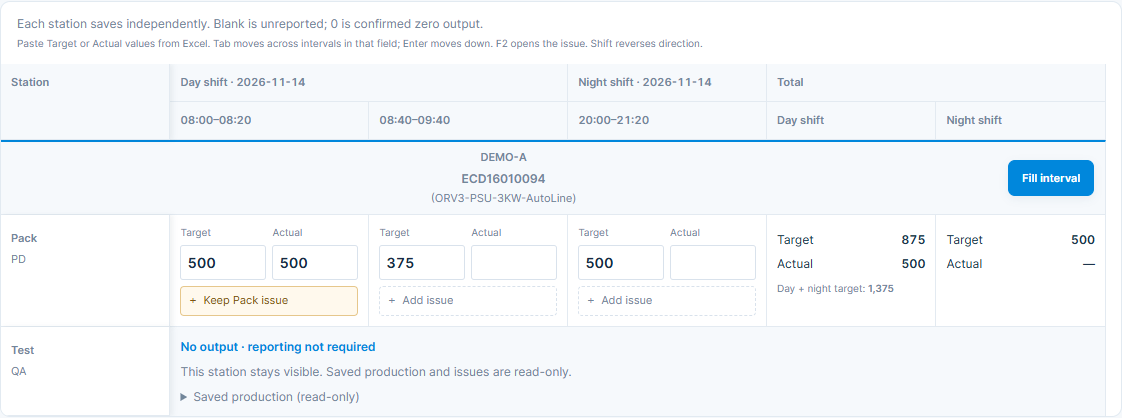
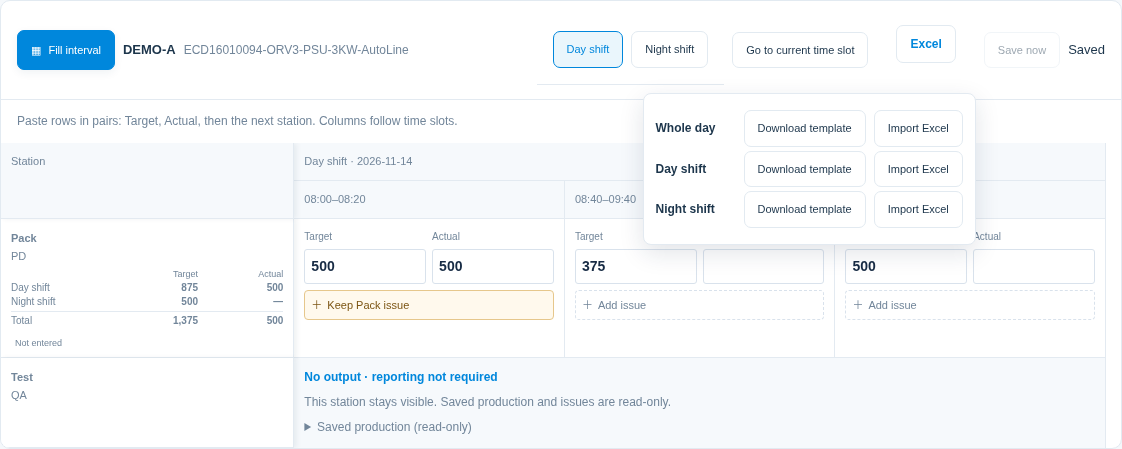
Improve production entry batch workflow

diff --git a/public/help.js b/public/help.js
@@ -51,12 +51,12 @@ const guides = {
         paragraphs: [
           'Choose production date, Line and Model; all stations are listed without a station selector. Each station row has Target, Actual and Issue for every interval. Counts and notes are independent across stations, models and shifts.',
           'If a configured combination has no enabled stations, the page retains its Line/Model choices and shows the daily-target allocation preview. Managers can open the exact Line configuration; members are told to contact a manager. Preview fields do not save production. Enable stations and Save settings before entering results.',
-          'Whole-day spreadsheet shows both shifts. Single-interval spreadsheet shows one slot; Whole-shift spreadsheet shows the selected shift. The left column shows only Job and Station. Target and Actual sit side by side; totals are on the right. People and owners remain saved automatically and are available in production details.',
-          'Stations follow the manager’s saved order. No-output stations remain visible with a reporting-not-required label and expandable saved history; their values cannot be edited. Click the highlighted Fill interval at the top right or beside a centered line heading. Select Line, Model, shift and interval, review current values, enter Target, Actual or both, then Apply to all stations. Entered columns replace prior individual values at enabled output-producing stations; blank keeps the column and 0 writes zero. Issues, other intervals and the daily preset stay unchanged. Individual cells remain editable afterward.',
-          'You can change Line or Model inside the batch window. Typed values remain while a fresh preview is loaded; review the destination before Apply. Applying or closing returns the table to that selected Line/Model and interval. Units with no output-producing stations show an explanation and cannot receive a batch.',
-          'Interval fill saves only when Apply is pressed; closing beforehand discards its unsent values. If another person changes a station, no part of a conflicting batch is saved. Refresh preview keeps your typed values so you can review before applying again. If stations have different captured intervals, use a shared interval or edit them individually.',
+          'Whole-day spreadsheet shows both shifts. Each station has adjacent Target/Actual inputs and a one-line issue preview. The fixed left column includes station, job and day/night/whole-day totals; personnel are in production details.',
+          'Use Fill interval at the left of the command bar. Choose date, Line, Model and interval. Apply Target, Actual or Issue to all stations, then edit individual cells; Apply keeps the window open. Blank shared fields preserve values; 0 writes zero.',
+          'Changing date, Line, Model or interval saves the current scope before loading the destination. Save now keeps the window open. X, Esc or clicking outside saves and closes, then returns entry to the selected destination.',
+          'Invalid values or version conflicts keep drafts open; no part of a conflicting batch is saved. Refresh preview, review changed fields and save again.',
           'Click Add issue or its one-line preview to open the note editor for the displayed station/date/interval. Quick text inserts equipment, material or quality reasons; edit freely, use Enter for new lines, or Clear note to remove text. Done, Esc, a click outside or Ctrl+Enter closes and saves. Opening a note without changes does not write data; long notes never enlarge the table row.',
-          'Click another numeric cell to autosave and confirm Saved. Blank is not reported; 0 is confirmed zero production. Tab moves across intervals within the same field, Enter moves down stations, F2 opens the current cell’s issue, and Ctrl+Enter returns to that cell. Paste numeric rectangles as before. Expand Excel import & templates only when needed.',
+          'Click another numeric cell to autosave and confirm Saved. Blank is not reported; 0 is confirmed zero production. Tab moves across intervals within the same field, Enter moves down stations, F2 opens the current cell’s issue, and Ctrl+Enter returns to that cell. For multirow paste, odd rows are Target and even rows Actual for successive stations. Excel offers whole-day or single-shift templates and imports.',
           'Invalid values and unresolved saves prevent leaving the page. Review latest shows only the affected station. Use latest data or Save my changed cells merges changed cells against the latest version. Other stations are never overwritten.',
         ],
       },
@@ -64,7 +64,7 @@ const guides = {
         title: 'Import an Excel report',
         paragraphs: [
           'Download the template for the production date and shift. Keep Row ID, Line, Model, Job, Station, interval, date and shift identifiers. Fill Target, Actual and Issue on each station’s own rows; different station counts are valid.',
-          'For CSV, provide Row ID + Time slot, or an unambiguous Line + Model + Job/Station + Time slot. Line/model alone is rejected when it matches several stations. Blank cells keep saved values; 0 writes zero. Enter each shift separately.',
+          'For CSV, provide Row ID + Time slot, or an unambiguous Line + Model + Job/Station + Time slot. Line/model alone is rejected when it matches several stations. Blank cells keep saved values; 0 writes zero. Excel offers whole-day or single-shift templates and imports.',
           'Preview checks mappings, intervals, values and versions. Fix errors before importing. Any stale station or configuration version rejects the entire import. Saved historical station and interval identifiers remain supported.',
         ],
       },
@@ -147,12 +147,12 @@ const guides = {
         paragraphs: [
           '確認生產日期、Line、Model，不需選站點，下方直接列各站。每站每時段都有 Target、Actual、Issue；各站、各 Model、各班別的數值與異常獨立。',
           '若配對沒有啟用站點，產線／Model 選項仍保留，並顯示日目標分配預覽。管理員可直接前往該組配置，member 會看到聯繫管理員提示；預覽欄位不建立填報。先啟用站點並儲存設定，再填寫結果。',
-          '整日雙班試算表列兩班；單時段試算表只列選定時段；整班試算表列所選班別。左側只顯示職務與站點，Target、Actual 並排，合計放右側。人員與 OWNER 仍自動保留，需要時到生產明細查看。',
-          '站點依管理員儲存的順序顯示。無產出站保留顯示與免填報標示，可展開已存歷史資料但不能改值。點上方右側醒目按鈕或置中產線標題右側「同時段批次填寫」，選產線、Model、班別與時段，核對現值後輸入 Target、Actual 或兩者並套用。填入欄覆蓋此組啟用產出站的原個別值；留白保留該欄，0 寫入零。異常、其他時段與日目標預設不變，套用後仍可個別修改。',
-          '批次視窗可直接切換產線與 Model，已輸入的數字保留並重新載入預覽，套用前請核對目的配對。套用或關閉後，填報表會切到所選產線／Model 與時段。沒有產出站的配對會說明原因，不能套用批次。',
-          '批次填寫按套用才儲存，套用前關閉會捨棄未送出的內容。若他人已修改任一站，衝突批次整批不寫入；「更新預覽」保留已輸入的數字，檢查後再套用。若歷史站點的保存時段不同，請選共同時段或個別填寫。',
+          '整日雙班試算表、單班與單時段表格皆將 Target、Actual 並排，異常只顯示一行。固定左欄包含站點、職務及早晚班與整日合計；人員可到生產明細查看。',
+          '工具列最左側「同時段批次填寫」可選日期、產線、Model 與時段，分別套用目標、實績、異常，再逐站修改；套用後視窗保持開啟。批次欄空白保留原值，0 寫入零。',
+          '切換日期、產線、Model 或時段前先儲存原範圍。立即儲存保留視窗；X、Esc 或點外面儲存後關閉，填報表回到所選日期與配對。',
+          '無效值或版本衝突時保留視窗與修改，衝突整批不寫入。更新預覽後核對修改，再儲存。',
           '點「新增異常」或一行摘要，編輯窗會標明站點、日期、班別及時段。可用設備停機、缺料、品質異常快捷文字再補充，Enter 換行，清除說明可清空。完成、Esc、點視窗外或 Ctrl+Enter 關閉並自動儲存；只開啟不改字不會寫入資料，長異常不會撐高表格。',
-          '離開數字欄位自動儲存，確認 Saved。空白未填報，0 是確認零產出；Tab 同欄跨時段、Enter 往下一站、F2 開啟當格異常，Ctrl+Enter 完成後回到原數字欄。可貼上 Target 或 Actual 數字矩形。需要匯入時再展開「Excel 匯入與範本」。',
+          '離開數字欄位自動儲存，確認 Saved。空白未填報，0 是確認零產出；Tab 同欄跨時段、Enter 往下一站、F2 開啟當格異常，Ctrl+Enter 完成後回到原數字欄。矩形多列貼上依單數列目標、雙數列實績對應各站。Excel 可下載與匯入整日雙班或單班範本，包含 Target、Actual、Issue。',
           '無效值、儲存失敗或衝突須先處理才能離開。檢視最新資料只顯示該站，選採用最新或儲存我修改的欄位；合併時保留別人改過而自己未改的欄位，不會覆寫其他站。',
         ],
       },
@@ -160,7 +160,7 @@ const guides = {
         title: '使用 Excel 匯入',
         paragraphs: [
           '依生產日期及班別下載範本，保留 Row ID、Line、Model、Job、Station、時段、日期與班別識別。各站自己的列分別填 Target、Actual、Issue，不同站可填不同產量。',
-          'CSV 請用 Row ID＋Time slot，或可唯一識別的 Line＋Model＋Job／Station＋Time slot。只填產線／Model 而有多站時會拒絕，避免猜站；空格保留原值，0 寫入零。兩班分開匯入。',
+          'CSV 請用 Row ID＋Time slot，或可唯一識別的 Line＋Model＋Job／Station＋Time slot。只填產線／Model 而有多站時會拒絕，避免猜站；空格保留原值，0 寫入零。Excel 可選整日雙班或單班範本與匯入。',
           '先預覽配置、時間、數值與版本，修正錯誤再匯入。任一站或設定版本衝突時整批拒絕；歷史站點與原時間識別仍可使用。',
         ],
       },
@@ -244,10 +244,10 @@ const guides = {
         paragraphs: [
           'เลือกวันที่ Line และ Model ทุกสถานีแสดงอัตโนมัติ ไม่ต้องเลือกสถานี แต่ละสถานีมี Target, Actual และ Issue ทุกช่วงเวลา ข้อมูลแยกตามสถานี Model และกะ',
           'หากคู่ยังไม่มีสถานีที่เปิดใช้ รายการสาย/Model ยังอยู่และแสดงตัวอย่างการแบ่งเป้าหมาย manager เปิดหน้าตั้งค่าคู่นั้นได้ member ติดต่อ manager ช่องตัวอย่างไม่บันทึก ต้องเปิดสถานีและบันทึกการตั้งค่าก่อน',
-          'ตารางทั้งสองกะตลอดวันแสดงสองกะ ตารางช่วงเวลาเดียวแสดงหนึ่งช่วง ตารางทั้งกะแสดงกะที่เลือก ด้านซ้ายแสดงเฉพาะหน้าที่และสถานี Target กับ Actual วางคู่กัน ยอดรวมอยู่ขวา บุคลากรและผู้รับผิดชอบยังบันทึกอัตโนมัติและดูในรายละเอียดได้',
-          'สถานีเรียงตามลำดับที่ผู้จัดการบันทึก คลิกกรอกทั้งสายตามช่วงข้างชื่อ Line/Model ตรวจวันที่ กะ ช่วงเวลาและค่าปัจจุบัน กรอก Target, Actual หรือทั้งสองแล้วกดใช้กับทุกสถานี คอลัมน์ที่กรอกจะทับค่ารายสถานีเดิมทุกสถานีที่เปิดใช้ในคู่นี้ ว่างเก็บค่าเดิม 0 เขียนศูนย์ ปัญหา ช่วงอื่นและเป้ารายวันเริ่มต้นไม่เปลี่ยน หลังใช้ค่ายังแก้แต่ละสถานีแยกกันได้',
-          'ปุ่มกรอกทั้งสายตามช่วงอยู่ด้านขวาบนและขวาของชื่อสายที่จัดกลาง เปลี่ยนสายและ Model ในหน้าต่างได้ ตัวเลขที่พิมพ์ไว้ยังอยู่ระหว่างโหลดตัวอย่างใหม่ ใช้หรือปิดแล้วตารางจะไปคู่สาย/Model และช่วงที่เลือก สถานีไม่มีผลผลิตยังแสดงโดยไม่มีช่องกรอกและเปิดดูประวัติได้ การกรอกเป็นชุดข้ามสถานีเหล่านี้ หากไม่มีสถานีมีผลผลิตจะใช้ค่าไม่ได้',
-          'บันทึกชุดเมื่อกดใช้เท่านั้น ปิดก่อนใช้จะยกเลิกค่าที่ยังไม่ส่ง หากผู้อื่นแก้สถานีจะไม่บันทึกชุดที่ขัดแย้ง โหลดตัวอย่างใหม่จะเก็บตัวเลขที่พิมพ์ไว้ให้ตรวจแล้วกดใช้อีกครั้ง หากช่วงเวลาประวัติของสถานีต่างกัน ให้เลือกช่วงที่ตรงกันหรือกรอกรายสถานี',
+          'ตารางทั้งสองกะตลอดวันมีช่อง Target และ Actual อยู่คู่กัน ปัญหาแสดงบรรทัดเดียว ด้านซ้ายตรึงชื่อสถานี หน้าที่ และยอดรวมกะเช้า กะกลางคืน และทั้งวัน ดูบุคลากรในรายละเอียดการผลิต',
+          'ปุ่มกรอกช่วงเวลาอยู่ซ้ายสุด เลือกวันที่ สาย Model และช่วงเวลา ใช้เป้าหมาย ผลจริง หรือปัญหากับทุกสถานี แล้วแก้ไขรายสถานีได้ หน้าต่างยังเปิดอยู่ ช่องว่างด้านบนไม่เปลี่ยนค่า 0 คือศูนย์',
+          'เปลี่ยนวันที่ สาย Model หรือช่วงเวลาจะบันทึกขอบเขตเดิมก่อน ปุ่มบันทึกยังเปิดหน้าต่างไว้ X, Esc หรือคลิกด้านนอกจะบันทึกแล้วปิด กลับไปยังวันที่และคู่ที่เลือก',
+          'ค่าผิดหรือข้อมูลขัดแย้งจะเก็บฉบับร่างและหน้าต่างไว้ ชุดที่ขัดแย้งไม่บันทึก ให้รีเฟรช ตรวจสอบ แล้วบันทึกอีกครั้ง',
           'คลิกเพิ่มปัญหาหรือข้อความย่อเพื่อเปิดหน้าต่างที่ระบุสถานี วันที่ กะและช่วงเวลา ใช้ข้อความด่วนเรื่องเครื่องจักร วัสดุหรือคุณภาพแล้วเติมรายละเอียด Enter ขึ้นบรรทัดใหม่ ล้างข้อความเพื่อลบ กดเสร็จสิ้น Esc คลิกนอกหน้าต่างหรือ Ctrl+Enter เพื่อปิดและบันทึก เปิดโดยไม่แก้ไขจะไม่เขียนข้อมูล ข้อความยาวไม่เพิ่มความสูงของแถว',
           'ออกจากช่องตัวเลขเพื่อบันทึกและตรวจ Saved ว่างคือยังไม่กรอก 0 คือยืนยันศูนย์ Tab ไปช่วงถัดไป Enter ลงสถานีถัดไป F2 เปิดปัญหา Ctrl+Enter กลับช่องเดิม วางตัวเลข Target หรือ Actual แบบตารางได้ เปิดเมนู Excel เมื่อต้องการนำเข้าหรือดาวน์โหลดแม่แบบ',
           'แก้ค่าผิด การบันทึกไม่สำเร็จหรือรุ่นขัดแย้งก่อนออก ดูข้อมูลล่าสุดเฉพาะสถานีที่ขัดแย้ง เลือกข้อมูลล่าสุดหรือบันทึกเฉพาะช่องที่แก้ รักษาช่องอื่นที่ผู้อื่นแก้ไว้และไม่เขียนสถานีอื่น',
@@ -257,7 +257,7 @@ const guides = {
         title: 'นำเข้ารายงาน Excel',
         paragraphs: [
           'ดาวน์โหลดแม่แบบตามวันที่และกะ เก็บ Row ID, Line, Model, Job, Station, ช่วงเวลา วันที่และกะ กรอก Target, Actual, Issue แยกแถวสถานี สถานีต่างกันมีจำนวนต่างกันได้',
-          'CSV ใช้ Row ID + Time slot หรือ Line + Model + Job/Station + Time slot ที่ระบุได้หนึ่งสถานี ถ้าระบุแค่สาย/Model แล้วพบหลายสถานีจะปฏิเสธ ช่องว่างเก็บค่าเดิม 0 เขียนศูนย์ นำเข้าแต่ละกะแยกกัน',
+          'CSV ใช้ Row ID + Time slot หรือ Line + Model + Job/Station + Time slot ที่ระบุได้หนึ่งสถานี ถ้าระบุแค่สาย/Model แล้วพบหลายสถานีจะปฏิเสธ ช่องว่างเก็บค่าเดิม 0 เขียนศูนย์ เลือกแม่แบบและนำเข้าทั้งวันหรือแยกกะได้',
           'ดูตัวอย่างเพื่อตรวจสถานี เวลา ค่าและรุ่น แก้ข้อผิดพลาดก่อนนำเข้า หากสถานีใดหรือการตั้งค่ารุ่นเปลี่ยนจะปฏิเสธทั้งชุด ประวัติใช้รหัสสถานีและเวลาเดิมได้',
         ],
       },

diff --git a/public/entry.js b/public/entry.js
@@ -132,7 +132,7 @@ const messages = {
     total: 'Total',
     productionDate: 'Production date',
     importScope:
-      'Each template/import covers only the named shift on this production date. Import both shifts separately; night intervals after midnight belong to this date.',
+      'Choose a whole-day or single-shift file. Night intervals after midnight belong to the selected production date.',
     pastePending: 'Pasted cells are pending autosave.',
     invalidPaste:
       'Nothing was pasted. Use a rectangle of valid whole numbers or blanks within Target or Actual cells.',
@@ -244,7 +244,7 @@ const messages = {
     total: '合計',
     productionDate: '生產日期',
     importScope:
-      '每個範本／匯入僅處理標示生產日期的一個班別，兩班請分開匯入；午夜後的晚班時段仍屬於此生產日期。',
+      '可選整日雙班或單班範本／匯入；午夜後的晚班時段仍屬於所選生產日期。',
     pastePending: '已貼上，等待自動儲存。',
     invalidPaste:
       '未貼上資料。請使用合法整數或空白的矩形範圍，且不得超出 Target 或 Actual 可填區。',
@@ -361,7 +361,7 @@ const messages = {
     total: 'รวม',
     productionDate: 'วันที่ผลิต',
     importScope:
-      'แต่ละแบบฟอร์ม/การนำเข้าครอบคลุมเฉพาะกะที่ระบุในวันที่ผลิตนี้ โปรดนำเข้าสองกะแยกกัน ช่วงกะดึกหลังเที่ยงคืนยังเป็นวันที่ผลิตนี้',
+      'เลือกแม่แบบและนำเข้าทั้งวันหรือแยกกะได้ ช่วงกะดึกหลังเที่ยงคืนยังเป็นวันที่ผลิตที่เลือก',
     pastePending: 'วางแล้ว รอการบันทึกอัตโนมัติ',
     invalidPaste:
       'ไม่ได้วางข้อมูล ใช้สี่เหลี่ยมจำนวนเต็มหรือค่าว่างภายในช่อง Target หรือ Actual ที่กรอกได้',
@@ -1584,6 +1584,7 @@ export function createEntryController({
     bulkDialog.innerHTML = `<div class="entry-issue-heading"><h2 id="entry-bulk-title">${esc(text('bulkTitle'))}</h2><button type="button" class="icon-button" data-entry-action="bulk-close" aria-label="${esc(text('close'))}">×</button></div>
       <div class="entry-bulk-selectors"><label>${esc(text('productionDate'))}<input type="date" data-bulk-date value="${esc(context.date)}"></label><label>${esc(text('line'))}<select data-bulk-line>${lines.map((value) => `<option value="${esc(value)}">${esc(value)}</option>`).join('')}</select></label><label>${esc(text('bulkProduct'))}<select data-bulk-model></select></label><label>${esc(text('interval'))}<select data-bulk-slot></select></label></div>
       <div class="entry-bulk-values">${bulkFields.map((field) => `<div><label>${esc(text(field))}<input type="text" ${field === 'issue' ? '' : 'inputmode="numeric"'} maxlength="${field === 'issue' ? 2000 : 12}" autocomplete="off" data-bulk-field="${field}" aria-label="${esc(text(field))}"></label><button type="button" class="button" data-entry-action="bulk-apply" data-bulk-apply-field="${field}">${esc(text(field === 'target' ? 'bulkApplyTarget' : field === 'actual' ? 'bulkApplyActual' : 'bulkApplyIssue'))}</button></div>`).join('')}</div>
+      <div class="entry-bulk-quick-text">${issuePresets(context.config).filter((item) => item.active && item.confirmed).map((item) => `<button type="button" class="button" data-entry-action="bulk-issue-preset" data-issue-preset="${esc(item.id)}">${esc(issueLabel(item, language()))}</button>`).join('')}</div>
       <div class="entry-bulk-preview" data-bulk-preview></div><p class="entry-error" data-bulk-error role="alert"></p><div class="entry-bulk-actions"><span data-bulk-status role="status"></span><div><button type="button" class="button" data-entry-action="bulk-refresh" hidden>${esc(text('bulkRefresh'))}</button><button type="button" class="button primary" data-entry-action="bulk-save">${esc(text('saveNow'))}</button></div></div>`;
     bulkScopeControls();
     bulkDialog.showModal();
@@ -2073,7 +2074,7 @@ export function createEntryController({
       productionUnits(context.config).find(
         (unit) => (!line || unit.line === line) && (!model || modelOf(unit) === model),
       ) || productionUnits(context.config)[0];
-    mount.innerHTML = `<div class="entry-view"><div class="entry-filters panel"><label>${esc(text('line'))}<select data-entry-line><option value="">${esc(text('allLines'))}</option>${lines.map((value) => `<option value="${esc(value)}" ${value === line ? 'selected' : ''}>${esc(value)}</option>`).join('')}</select></label><label>${esc(text('bulkProduct'))}<select data-entry-model-filter><option value="">${esc(text('allModels'))}</option>${models.map((value) => `<option value="${esc(value)}" ${value === model ? 'selected' : ''}>${esc(value)}</option>`).join('')}</select></label><label>${esc(text('inputMode'))}<select data-entry-mode><option value="sheet" ${mode === 'sheet' ? 'selected' : ''}>${esc(text('sheetMode'))}</option><option value="shift" ${mode === 'shift' ? 'selected' : ''}>${esc(text('shiftMode'))}</option><option value="day" ${mode === 'day' ? 'selected' : ''}>${esc(text('dayMode'))}</option></select></label></div><div class="entry-banner" role="alert" ${banner ? '' : 'hidden'}>${esc(banner)}</div><div class="entry-rows">${visible.length ? '' : sheetTools(context, bulkUnit)}${content}<div class="entry-reviews">${queue
+    mount.innerHTML = `<div class="entry-view"><div class="entry-filters panel"><label>${esc(text('line'))}<select data-entry-line><option value="">${esc(text('allLines'))}</option>${lines.map((value) => `<option value="${esc(value)}" ${value === line ? 'selected' : ''}>${esc(value)}</option>`).join('')}</select></label><label>${esc(text('bulkProduct'))}<select data-entry-model-filter><option value="">${esc(text('allModels'))}</option>${models.map((value) => `<option value="${esc(value)}" ${value === model ? 'selected' : ''}>${esc(value)}</option>`).join('')}</select></label><label>${esc(text('inputMode'))}<select data-entry-mode><option value="sheet" ${mode === 'sheet' ? 'selected' : ''}>${esc(text('sheetMode'))}</option><option value="shift" ${mode === 'shift' ? 'selected' : ''}>${esc(text('shiftMode'))}</option><option value="day" ${mode === 'day' ? 'selected' : ''}>${esc(text('dayMode'))}</option></select></label></div><div class="entry-banner" role="alert" ${banner ? '' : 'hidden'}>${esc(banner)}</div><div class="entry-rows">${visible.length && !context.loading ? '' : sheetTools(context, bulkUnit)}${content}<div class="entry-reviews">${queue
       .values()
       .filter((entry) => reviewed.has(entry.key))
       .map((entry) => reviewMarkup(entry.key))
@@ -2462,6 +2463,18 @@ export function createEntryController({
     if (action === 'bulk-refresh') return loadBulkPreview();
     if (action === 'bulk-apply') return applyBulk(button.dataset.bulkApplyField);
     if (action === 'bulk-save') return saveBulk();
+    if (action === 'bulk-issue-preset') {
+      if (!bulkEditor || bulkEditor.busy || bulkEditor.loading) return;
+      const preset = issuePresets(getContext().config).find((item) =>
+        item.id === button.dataset.issuePreset && item.active && item.confirmed);
+      if (preset) {
+        const input = bulkDialog.querySelector('[data-bulk-field="issue"]');
+        input.value = issueLabel(preset, language());
+        updateBulkControls();
+        input.focus();
+      }
+      return;
+    }
     if (action === 'edit-issue') return openIssue(button);
     if (action === 'close-issue') return closeIssue();
     if (action === 'clear-issue' || action === 'issue-preset')

diff --git a/public/entry.css b/public/entry.css
@@ -800,7 +800,7 @@
 }
 .entry-bulk-values {
   display: grid;
-  grid-template-columns: repeat(2, minmax(0, 1fr));
+  grid-template-columns: repeat(3, minmax(0, 1fr));
   gap: 12px;
   margin-top: 14px;
 }
@@ -909,3 +909,82 @@
     width: 90px;
   }
 }
+
+/* Keep commands outside the independently scrolling station grid. */
+.entry-sheet-tools {
+  display: flex;
+  flex-wrap: wrap;
+  align-items: center;
+  justify-content: space-between;
+  gap: 12px;
+  padding: 12px 16px;
+  border-bottom: 1px solid var(--border, #e3eaf1);
+}
+.entry-sheet-primary, .entry-sheet-actions {
+  display: flex;
+  align-items: center;
+  flex-wrap: wrap;
+  gap: 8px;
+  min-width: 0;
+}
+.entry-sheet-primary { flex: 1 1 320px; }
+.entry-sheet-identity { flex: 1; min-width: 0; }
+.entry-sheet-identity .production-identity {
+  display: flex;
+  align-items: baseline;
+  gap: 8px;
+  min-width: 0;
+}
+.entry-sheet-identity .production-model-single {
+  overflow: hidden;
+  text-overflow: ellipsis;
+  white-space: nowrap;
+  min-width: 0;
+  font-size: 12px;
+}
+.entry-sheet-actions .entry-interval-picker { margin: 0; }
+.entry-import-scope { position: relative; }
+.entry-excel-menu {
+  position: absolute;
+  top: calc(100% + 6px);
+  right: 0;
+  z-index: 8;
+  width: max-content;
+  max-width: calc(100vw - 48px);
+  padding: 12px;
+  border: 1px solid var(--border, #e3eaf1);
+  border-radius: 8px;
+  background: var(--surface, #fff);
+  box-shadow: 0 8px 24px #172b4420;
+}
+.entry-excel-menu > div {
+  display: grid;
+  grid-template-columns: 80px auto auto;
+  align-items: center;
+  gap: 8px;
+  margin: 4px 0;
+  font-size: 12px;
+}
+.entry-recovery[hidden], .entry-conflict-review[hidden] { display: none; }
+.entry-station-recovery .entry-save-status:only-child { display: none; }
+.entry-bulk-dialog { overscroll-behavior: contain; }
+.entry-bulk-preview table { table-layout: fixed; }
+.entry-bulk-preview th:first-child { width: 24%; }
+.entry-bulk-preview th:last-child { width: 34%; }
+.entry-bulk-preview tbody th small { display: block; color: var(--muted); font-weight: 400; }
+.entry-bulk-preview td { padding: 6px; }
+.entry-bulk-preview input { text-overflow: ellipsis; color: inherit; background: var(--surface, #fff); }
+.entry-bulk-quick-text { display: flex; gap: 6px; flex-wrap: wrap; margin-top: 10px; }
+@media (max-width: 760px) {
+  .entry-bulk-values { grid-template-columns: repeat(2, minmax(0, 1fr)); }
+  .entry-bulk-values > div:last-child { grid-column: 1 / -1; grid-template-columns: minmax(0, 1fr) auto; }
+  .entry-sheet-primary { flex-basis: 100%; }
+  .entry-bulk-preview th:first-child { width: 22%; }
+  .entry-bulk-preview th:last-child { width: 30%; }
+  .entry-bulk-preview td, .entry-bulk-preview th { padding: 4px; }
+  .entry-bulk-preview input { padding: 6px 4px; }
+}
+.entry-station-recovery .entry-save-saved,
+.entry-station-recovery .entry-save-idle { display: none; }
+.entry-matrix tbody .entry-matrix-station { padding: 6px 10px; }
+.entry-matrix-station > small { margin-top: 2px; line-height: 1.3; }

diff --git a/public/index.html b/public/index.html
@@ -219,7 +219,6 @@
             </button>
             <div>
               <h2 id="detail-line-title"></h2>
-              <p data-i18n="detailHint"></p>
             </div>
           </div>
           <div id="overview-panels" class="overview-panels">

diff --git a/docs/USER_GUIDE.en.md b/docs/USER_GUIDE.en.md
@@ -21,11 +21,11 @@ Save settings at top/bottom publishes the draft. Save draft stays in this browse
 
 ![Station production entry](./images/production-entry.png)
 
-Choose production date, Line and Model. All stations appear automatically; there is no station selector. The fixed left column shows only Job/Station. Each interval has adjacent **Target / Actual** inputs and a one-line issue button. Individual edits affect only that station. People and owners remain automatically captured and can be viewed in production details.
+Choose production date, Line and Model. All stations appear automatically; there is no station selector. The fixed left column shows Job/Station and day/night/whole-day totals. Each interval has adjacent **Target / Actual** inputs and a one-line issue button. Individual edits affect only that station. People and owners remain automatically captured and can be viewed in production details.
 
 Interval target = daily preset × interval production minutes ÷ total production minutes across both shifts. Breaks are excluded and rounding preserves the daily total for each station. A preset of 1,000 over 500 minutes gives a 20-minute interval 40. Changing one station’s Target to 50 changes only that station’s report-day total to 1,010, leaving other stations and the 1,000 preset unchanged.
 
-Whole-day spreadsheet shows both shifts; Whole-shift spreadsheet shows the selected shift; Single-interval spreadsheet shows one slot. All modes keep Target/Actual and issue buttons. Day/night totals and the whole-day target are on the right. Blank means not entered/unknown; 0 is explicit zero. Counts must be integers from 0 to 99,999,999.
+Whole-day spreadsheet shows both shifts; Whole-shift spreadsheet shows the selected shift; Single-interval spreadsheet shows one slot. All modes keep Target/Actual and issue buttons. Day/night and whole-day Target/Actual totals stay with Job/Station in the fixed left column. Blank means not entered/unknown; 0 is explicit zero. Counts must be integers from 0 to 99,999,999.
 
 Click another numeric cell to autosave and confirm Saved. Tab moves across intervals within the same field; Enter moves down stations. Paste a numeric rectangle into the same Target or Actual field across stations/intervals. Failed saves retain input. Review a station version conflict before Use latest data or Save my changed cells; only changed cells are merged and other stations stay independent.
 
@@ -41,11 +41,11 @@ Managers drag the grip in the far-left Order column to place a station before or
 
 ![Interval fill](./images/interval-batch.png)
 
-Managers and members can click the highlighted **Fill interval** at the top right or to the right of a centered line heading. Confirm the date, select Line, Model, shift and interval, and review station values. Enter Target, Actual or both, then **Apply to all stations**. Entered columns overwrite individual values at enabled output-producing stations for this interval. Blank keeps the column unchanged; 0 writes zero. Issues, other intervals, other models and the daily preset stay unchanged. Report-day target totals recalculate.
+Click **Fill interval** at the left of the entry command bar. Select production date, Line, Model and interval. Edit Target, Actual and Issue for each station, or enter a shared value above and use its Apply button. Applying stays in the window for further edits. Confirmed multilingual issue quick text is also available. Blank shared fields preserve existing values; zero writes zero. Individual fields can be cleared.
 
-Line and Model can be changed inside the window; numeric drafts remain while a new preview loads. Check the destination before applying. Applying or closing returns entry to the selected Line/Model and interval. Closing without applying discards unsent numeric values. Units without output-producing stations cannot receive a batch.
+**Save now** saves without closing. X, Esc or clicking outside saves before closing; invalid values or conflicts keep the window and drafts open. Changing date/unit/interval saves the original scope before loading the destination. Closing returns entry to that destination. A conflicting batch saves nothing; Refresh preview retains changed fields for review before retrying.
 
-This is a one-time operation: each station remains individually editable afterward. A later interval fill replaces those individual values again. Closing before Apply discards the unsent draft. If a station changed after preview, the conflicting batch saves nothing. **Refresh preview** retains your typed values so you can check the latest data and apply again. Different captured historical intervals must be edited individually unless a shared interval exists.
+Paste adjacent Target/Actual columns into the batch sheet, or a single column alternating Target then Actual for each station. The main grid accepts paired rows across intervals: odd rows Target, even rows Actual, then the next station. Invalid or out-of-range rectangles are rejected in full. Other intervals and daily presets stay unchanged.
 
 ## Stations without output
 
@@ -65,7 +65,7 @@ A configured line/model with no enabled stations remains selectable and shows it
 
 ## Excel import
 
-Expand **Excel import & templates**, download the production-date/shift template and retain identifiers. Enter Target, Actual and Issue on each station’s own rows; different counts at different stations are valid. Blank cells preserve saved values; 0 writes zero. Import each shift separately.
+Expand **Excel import & templates**, download the production-date/shift template and retain identifiers. Enter Target, Actual and Issue on each station’s own rows; different counts at different stations are valid. Blank cells preserve saved values; 0 writes zero. The Excel menu offers whole-day, day-shift and night-shift templates and imports. A whole-day file contains both shifts.
 
 CSV uses Row ID + Time slot, or an unambiguous Line + Model + Job/Station + Time slot. Line/model alone is rejected if it matches several stations. Preview all affected station rows before importing. Any stale station/configuration version rejects the entire batch. Historical station/model/interval identifiers remain supported.
 

diff --git a/README.md b/README.md
@@ -44,9 +44,9 @@ XLSX／CSV 依站點識別預覽後整批匯入，允許各站不同值；空格
 
 看板使用該組所選來源站，不加總產品經過的所有站。缺少配置時仍可選 Line／Model 並看目標預覽；manager 可直接前往該組配置，新增啟用站點並儲存再填。配置只列目前配對，不再推薦舊 Model。取消 Active 保留列供再啟用；Delete 從目前配置刪除，Save settings 後重整也不回來。重新新增使用新 ID，不帶回舊數值；歷史姓名、時段與填報保留。
 
-填報採精簡表格：左欄只顯示職務／站點，Target、Actual 並排，合計在右側。異常只佔一行摘要，點開或 F2 編輯，支援快捷原因、多行、清除與自動儲存；關閉不撐高表格。人員與 OWNER 仍自動保存並於明細查看。Excel 工具預設收合，需要時再展開。
+填報採精簡表格：左欄只顯示職務／站點，Target、Actual 並排，早晚班與整日目標／實績合計固定在左側職務／站點旁。異常只佔一行摘要，點開或 F2 編輯，支援快捷原因、多行、清除與自動儲存；關閉不撐高表格。人員與 OWNER 仍自動保存並於明細查看。Excel 與班別切換放在同一工具列，可下載及匯入整日雙班或單班範本，皆含 Target、Actual、Issue。
 
-產線配置可拖曳職務旁把手或用上下按鈕排序，儲存後填報、站點明細與匯出沿用同組 Line／Model 的順序，來源站不變。填報標題旁的「同時段批次填寫」可一起套用 Target／Actual，覆蓋該時段原有個別值，之後仍可逐站修改。批次空白保留原值、0 寫入零，異常及日目標預設不變；版本衝突整批取消。
+產線配置可拖曳職務旁把手或用上下按鈕排序，儲存後填報、站點明細與匯出沿用同組 Line／Model 的順序，來源站不變。工具列最左的「同時段批次填寫」可選日期、產線、機種與時段，分別套用 Target／Actual／Issue，再逐站修改與矩形貼上。套用及立即儲存保留視窗；X、Esc 或點外面儲存後關閉。切換範圍先儲存原資料；空白批次欄保留原值、0 寫入零，日目標預設不變，版本衝突整批取消並保留修改。異常快捷清單可設定三種語言，核對並確認翻譯後發布。
 
 ## 資料與維護
 
@@ -75,7 +75,7 @@ npm install --no-save --prefix .runtime/browser-audit playwright-core@1.56.1
 
 The browser and HTTP server share the route catalog in [public/pages.js](./public/pages.js). `/overview`, `/details`, `/entry`, `/guide` and the eight `/settings/...` pages support direct requests and browser history. Unknown paths remain 404; assets use absolute paths. The server currently serves the app shell for known pages, and each page loads data through the authenticated `/api/...` endpoints. This prepares stable page addresses and API contracts for later backend rendering or external production integration; automatic collection is not connected yet.
 
-Station mappings support optional `hasOutput` (default `true` for existing data). A false value keeps enabled stations visible with read-only history, prevents production writes and excludes them from batch fill and Excel templates. Current configuration governs editability without rewriting saved snapshots. The batch dialog can change line/model and returns entry to that destination after applying or closing. Display-only model formatting splits the first hyphen and never changes IDs or import values.
+Station mappings support optional `hasOutput` (default `true` for existing data). A false value keeps enabled stations visible with read-only history, prevents production writes and excludes them from batch fill and Excel templates. Current configuration governs editability without rewriting saved snapshots. The batch dialog edits the production date, line/model and interval, saving the original scope before switching. Apply and Save stay open; closing saves and returns entry to the destination. Display-only model formatting splits the first hyphen and never changes IDs or import values.
 
 Settings now use enabled `productionUnits` (`line`, `model`, `dailyTarget`, `staffing`) and a `models` catalog. Every active mapping references an enabled line/model. Station targets, actuals and issues are independent within each enabled line/model. Personnel defaults and imports respect both unit and station identities. Monitoring uses one selected output station per unit. Legacy settings migrate into `Default`; saved production snapshots remain unchanged. `lineTargets` and `lineStaffing` are compatibility views of Default for older clients.
 

diff --git a/docs/USER_GUIDE.md b/docs/USER_GUIDE.md
@@ -19,10 +19,10 @@
 
 站點排序：管理員在產線配置拖曳職務旁把手或用上下按鈕，儲存設定後，填報、明細及匯出依此順序。各 Line／Model 分別排序，不改產量來源或已有資料。
 
-同時段批次填寫：在填報的產線標題旁開啟，確認班別／時段及各站現值，再填 Target、Actual 或兩者並套用。輸入欄覆蓋該時段原有個別值；留白保留原值，0 寫入零。套用後仍可個別修改，異常與預設日目標不變。完整步驟與衝突處理見[填報員教學](./MEMBER_GUIDE.md)。
+同時段批次填寫：從工具列最左側開啟，選日期、產線、機種及時段，可套用目標、實績、異常，再逐站修改與矩形貼上。套用後保留視窗；立即儲存保留視窗，點外面、X 或 Esc 儲存後關閉。完整步驟與衝突處理見[填報員教學](./MEMBER_GUIDE.md)。
 
 Model 版本：第 1 步建立 Models 並以下拉新增各線的 Model 配對；目標、人員、配置、填報及圖表均依產線＋Model 區分。移除清單在原頁確認影響，刪除職務時直接刪除人員及分配，不需先逐頁刪除。
 
-無產出站：配置中維持啟用、取消「有產出」，仍顯示但免填數值，歷史只供查閱，批次與範本略過。批次視窗可切換產線／Model，數字保留供核對，套用或關閉後回到所選配對。醒目入口放在上方右側，各線標題置中、按鈕靠右。
+無產出站：配置中維持啟用、取消「有產出」，仍顯示但免填數值，歷史只供查閱，批次與範本略過。批次視窗可切換日期、產線／Model，先儲存原範圍再載入新資料。工具列將批次填寫、機種、班別、目前時段及 Excel 放在一起，表格左右捲動不會移走按鈕。Excel 可選整日或單班範本，包含目標與實績。
 
 型號顯示不再加 Model 前綴，第一個 `-` 前的名稱一行，其餘加括號放第二行；保存名稱不變。每個功能頁及設定步驟都有獨立網址，支援直接開啟、重整與上一頁／下一頁，仍依帳號權限及未儲存資料保護操作。

diff --git a/docs/VALIDATION.md b/docs/VALIDATION.md
@@ -1,3 +1,17 @@
+# 2026-11-09 填報操作與版面驗證
+
+本次使用 Node.js 24.22.1、Chromium 與 playwright-core 1.56.1，在臨時 SQLite 與獨立連接埠測試。
+
+- `npm test`：186 項通過，0 失敗。新增整日 XLSX 同時匯入兩班 Target／Actual（含 0）與異常清單三語確認驗證。
+- 瀏覽器涵蓋批次套用保持開啟、個別編輯、目標／實績成對貼上、異常快捷文字、修改生產日期、點外儲存、跨產線／Model 及衝突整批拒絕；三種語言、1440／1024／768／390 寬度皆驗證。
+- 修正日期載入期間缺少 Excel 工具列導致 `Cannot set properties of null`；隱藏的儲存復原按鈕不再撐高站點列。
+- 更新工具列、批次視窗、左側合計、整日 Excel 與教學截圖。套用只更新視窗內待存欄位；立即儲存不關閉，X／Esc／點外面儲存後關閉。切換範圍先儲存原範圍。
+- 異常快捷翻譯提供常用詞建議；自訂原因未命中時需人工填寫並確認三語，沒有串接外部自動翻譯服務。
+
+以下保留先前版本的歷史驗證紀錄，其中舊版按鈕位置與取消操作以本節及最新操作教學為準。
+
+---
+
 # 無產出站、跨產線批次填寫與獨立頁面驗證紀錄
 
 驗證日期：2026-11-07。自動測試使用獨立 SQLite、Port 與 DEMO 資料；正式服務阻擋設定／報表寫入，只測試瀏覽器草稿操作與資料比對。

diff --git a/docs/MANAGER_GUIDE.md b/docs/MANAGER_GUIDE.md
@@ -100,3 +100,8 @@
 Save settings 發布共用設定；Save draft 只留目前瀏覽器／帳號。載入已儲存設定會先確認是否放棄修改；其他瀏覽器的新清單先儲存，再載入。版本衝突保留草稿，勿用舊草稿覆蓋同仁新資料。
 
 改名同步目前設定；移除會先列影響範圍。歷史報表保留姓名、站點、Model、時段與數值。設定修改不會自動改寫報表；目前各站數值獨立。全螢幕每頁最多七組，實際列數依畫面及圖表空間調整，完整 Model 可在明細查看。
+
+
+## 異常快捷文字與翻譯確認
+
+在警示及刷新設定的「異常快捷文字」新增原因，填寫 Chinese、English、Thai。常用原因可帶入翻譯建議；未找到對應時需自行填寫。逐一核對並更正後，勾選「我已核對三種語言的翻譯」再儲存設定。修改任何語言都會取消確認，需重新核對。只有啟用且完成確認的項目會出現在逐站異常編輯與批次填寫視窗；顯示目前介面語言。
